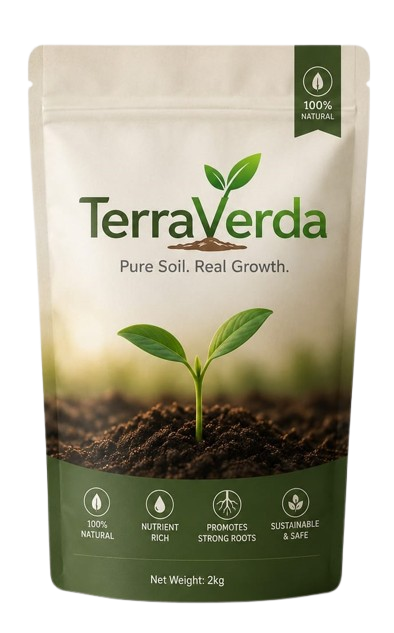
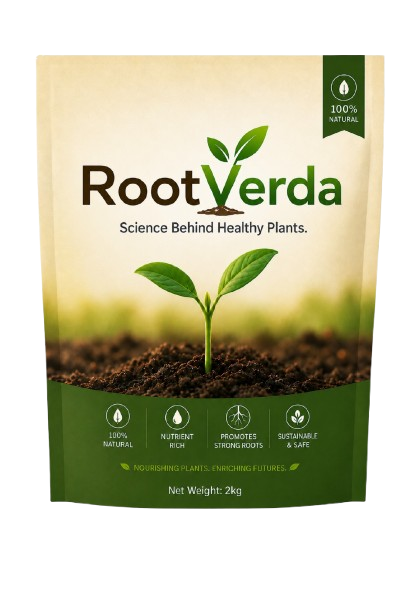
changed imagine to root verda, About us changes & routing to products

diff --git a/app/(public)/about/page.jsx b/app/(public)/about/page.jsx
@@ -1,5 +1,5 @@
 'use client'
-import { Suspense, useState } from 'react'
+import { Suspense, useEffect, useState } from 'react'
 import Image from 'next/image'
 import ProductCard from '@/components/ProductCard'
 import { useSelector } from 'react-redux'
@@ -29,6 +29,16 @@ function AboutContent() {
         setCarouselIndex((prevIndex) => (prevIndex >= maxCarouselIndex ? 0 : prevIndex + 1))
     }
 
+    useEffect(() => {
+        if (!carouselItems.length) return
+
+        const intervalId = setInterval(() => {
+            setCarouselIndex((prevIndex) => (prevIndex >= maxCarouselIndex ? 0 : prevIndex + 1))
+        }, 3000)
+
+        return () => clearInterval(intervalId)
+    }, [carouselItems.length, maxCarouselIndex])
+
     return (
         <div className="min-h-screen mx-6">
             <div className="max-w-7xl mx-auto py-12">
@@ -56,7 +66,7 @@ function AboutContent() {
                     <div className="flex flex-col gap-4 md:flex-row md:items-center md:justify-between">
                         <div>
                             <p className="text-sm uppercase tracking-[0.3em] text-green-600 font-semibold mb-2">About Us Sections</p>
-                            <h2 className="text-2xl md:text-3xl font-bold text-slate-800">Choose a page to learn more</h2>
+                            <h2 className="text-2xl md:text-3xl font-bold text-slate-800">We Are Always Connected With Nature — And With You</h2>
                         </div>
                         <div className="w-full md:w-auto">
                             <div className="hidden md:flex gap-3">
@@ -94,7 +104,7 @@ function AboutContent() {
                                         <p className="text-sm uppercase tracking-[0.3em] text-green-600 font-semibold mb-3">Founder</p>
                                         <h3 className="text-3xl font-bold text-slate-800 mb-4">Our Founder is a visionary leader for organic growth.</h3>
                                         <p className="text-slate-600 leading-relaxed">
-                                            Our founder blends deep agricultural science with a commitment to community-led sustainable farming. The founder's goal is to make organic solutions practical, scalable, and meaningful for both rural farms and urban homes.
+                                           At RootVerda, every customer relationship begins with trust and continues through genuine support, honest communication, and our commitment to helping both people and plants grow healthier together.Whether you are a home gardener caring deeply for your balcony plants, a nature lover building greener spaces around your family, a farmer looking to understand the larger value of natural agricultural products, or someone simply seeking honest guidance for healthier plant growth — we are always ready to listen.
                                         </p>
                                         <p className="text-slate-600 leading-relaxed mt-4">
                                             This section showcases real product innovation, hands-on leadership, and a passion for connecting every customer to healthier soil, better harvests, and trusted expert support.
@@ -146,33 +156,58 @@ function AboutContent() {
                                     <div className="grid gap-4">
                                         <div className="rounded-3xl bg-white p-6 shadow-sm border border-slate-200">
                                             <h5 className="text-xl font-semibold text-slate-800 mb-3">Product-led leadership</h5>
-                                            <p className="text-slate-600 leading-relaxed">Our founder leads with product innovation that blends sustainable ingredients, practical application, and consistent performance across every soil type.</p>
+                                            <p className="text-slate-600 leading-relaxed">We believe that every question deserves attention because behind every plant stands a person who genuinely cares about life, growth, and the beauty that nature quietly creates around us.Our team remains available to help customers understand product suitability, discuss plant health concerns, provide guidance related to natural agricultural products, and assist with product selection based on your individual plant care requirements.</p>
                                         </div>
                                         <div className="rounded-3xl bg-white p-6 shadow-sm border border-slate-200">
                                             <h5 className="text-xl font-semibold text-slate-800 mb-3">Built for modern growers</h5>
-                                            <p className="text-slate-600 leading-relaxed">Every image in the carousel represents a category of products designed to support gardens, farms, and indoor growers with reliable, easy-to-use solutions.</p>
+                                            <p className="text-slate-600 leading-relaxed">For local sourcing operations, farmer coordination, and product collection activities from the Konkan region, our ground operations are supported through our local network managed from Sindhudurg by our operational representative Rupesh Sawant, who helps us stay closely connected with local agricultural communities and regional product sourcing activities.</p>
                                         </div>
                                     </div>
                                 </div>
                             </div>
                         ) : (
+                            <>
+                             <div className="mb-16 bg-gradient-to-r from-green-50 to-slate-50 p-10 rounded-lg">
+                    <h2 className="text-3xl font-bold text-slate-800 mb-8 flex items-center gap-2">
+                        <Leaf className="w-8 h-8 text-green-600" />
+                        Meet Our Organic Farming Specialist
+                    </h2>
+                    <div className="flex justify-center">
+                        <div className="group w-full max-w-2xl bg-white shadow-lg rounded-xl overflow-hidden transform transition duration-300 hover:scale-105 hover:shadow-2xl">
+                            <img
+                                src="http://kvksindhudurg.com/wp-content/uploads/2024/06/vys-150x150.jpg"
+                                alt="Organic Farming Specialist"
+                                className="w-100 h-100 object-cover group-hover:opacity-90 transition duration-300 justify-center items-center mx-auto "
+                            />
+                            <div className="p-6 text-center">
+                                <h3 className="text-xl font-bold text-slate-800 mb-2">Dr. Vilas Yashwant Sawant</h3>
+                                <p className="text-slate-600 mb-4">Subject Matter Specialist</p>
+                                <p className="text-slate-600 mb-4">Discipline: Extension Education</p>
+                                <div className="flex justify-center gap-4">
+                                    <span className="px-4 py-2 bg-green-100 text-green-700 rounded-full text-sm font-medium group-hover:bg-green-200 transition">
+                                        15+ Years Experience
+                                    </span>
+                                    <span className="px-4 py-2 bg-green-100 text-green-700 rounded-full text-sm font-medium group-hover:bg-green-200 transition">
+                                        Global Recognition
+                                    </span>
+                                </div>
+                            </div>
+                        </div>
+                    </div>
+                </div>
                             <div className="grid gap-8 lg:grid-cols-[1.2fr_0.8fr]">
                                 <div className="space-y-6">
                                     <div className="rounded-3xl bg-white p-8 shadow-sm border border-slate-200">
                                         <p className="text-sm uppercase tracking-[0.3em] text-green-600 font-semibold mb-3">Expertise</p>
-                                        <h3 className="text-3xl font-bold text-slate-800 mb-4">Guidance backed by science and experience</h3>
+                                        <h3 className="text-3xl font-bold text-slate-800 mb-4">Guidance backed by experience</h3>
                                         <p className="text-slate-600 leading-relaxed">
-                                            Our advisor expertise page helps customers understand why our products work, how to use them effectively, and why each choice supports healthier plants. We combine academic research, field experience, and practical plant care advice.
+                                           Dr. Vilas Sawant is recognized for his work as a Subject Matter Specialist in Extension Education, actively participating in field-based agricultural research activities focused on improving farming practices under real-world conditions. His expertise includes on-farm testing programs where agricultural technologies are tested directly on farmers’ fields to evaluate their effectiveness under different soil types, climatic conditions, local farming systems, and regional agricultural environments.
                                         </p>
                                     </div>
-                                    <div className="grid gap-4 sm:grid-cols-2">
+                                    <div className="grid gap-4 sm:grid-cols-1">
                                         <div className="rounded-3xl bg-white p-6 shadow-sm border border-slate-200">
                                             <h5 className="text-xl font-semibold text-slate-800 mb-3">Science-backed formulas</h5>
-                                            <p className="text-slate-600 leading-relaxed">Every recommendation is supported by soil science and organic farming principles so you can trust the results.</p>
-                                        </div>
-                                        <div className="rounded-3xl bg-white p-6 shadow-sm border border-slate-200">
-                                            <h5 className="text-xl font-semibold text-slate-800 mb-3">Verified field results</h5>
-                                            <p className="text-slate-600 leading-relaxed">Our team works with farm partners to test products in real conditions before we bring them to market.</p>
+                                            <p className="text-slate-600 leading-relaxed">His work follows a highly practical scientific approach where technologies developed through agricultural universities and research institutes are tested, refined, modified where necessary, and then implemented for wider adoption after successful evaluation.For more than five years, continuous discussions around agriculture, natural farming opportunities, soil science, sustainable farming practices, and long-term agricultural business development gradually shaped the early vision of RootVerda.</p>
                                         </div>
                                     </div>
                                 </div>
@@ -204,6 +239,7 @@ function AboutContent() {
                                     </div>
                                 </div>
                             </div>
+                            </>
                         )}
                     </div>
                 </div>
@@ -229,54 +265,7 @@ function AboutContent() {
                     </div>
                 </div>
 
-                <div className="mb-16 bg-gradient-to-r from-green-50 to-slate-50 p-10 rounded-lg">
-                    <h2 className="text-3xl font-bold text-slate-800 mb-8 flex items-center gap-2">
-                        <Leaf className="w-8 h-8 text-green-600" />
-                        Meet Our Organic Farming Specialist
-                    </h2>
-                    <div className="grid grid-cols-1 md:grid-cols-2 lg:grid-cols-3 gap-8">
-                        <div className="group bg-white shadow-lg rounded-xl overflow-hidden transform transition duration-300 hover:scale-105 hover:shadow-2xl">
-                            <img
-                                src="http://kvksindhudurg.com/wp-content/uploads/2024/06/vys-150x150.jpg"
-                                alt="Organic Farming Specialist"
-                                className="w-full h-80 object-cover group-hover:opacity-90 transition duration-300"
-                            />
-                            <div className="p-6 text-center">
-                                <h3 className="text-xl font-bold text-slate-800 mb-2">Dr. Vilas Yashwant Sawant</h3>
-                                <p className="text-slate-600 mb-4">Subject Matter Specialist</p>
-                                <p className="text-slate-600 mb-4">Discipline: Extension Education</p>
-                                <div className="flex justify-center gap-4">
-                                    <span className="px-4 py-2 bg-green-100 text-green-700 rounded-full text-sm font-medium group-hover:bg-green-200 transition">
-                                        15+ Years Experience
-                                    </span>
-                                    <span className="px-4 py-2 bg-green-100 text-green-700 rounded-full text-sm font-medium group-hover:bg-green-200 transition">
-                                        Global Recognition
-                                    </span>
-                                </div>
-                            </div>
-                        </div>
-                        <div className="group bg-white shadow-lg rounded-xl overflow-hidden transform transition duration-300 hover:scale-105 hover:shadow-2xl">
-                            <img
-                                src="http://kvksindhudurg.com/wp-content/uploads/2024/06/vys-150x150.jpg"
-                                alt="Organic Farming Specialist"
-                                className="w-full h-80 object-cover group-hover:opacity-90 transition duration-300"
-                            />
-                            <div className="p-6 text-center">
-                                <h3 className="text-xl font-bold text-slate-800 mb-2">Dr. Vilas Yashwant Sawant</h3>
-                                <p className="text-slate-600 mb-4">Subject Matter Specialist</p>
-                                <p className="text-slate-600 mb-4">Discipline: Extension Education</p>
-                                <div className="flex justify-center gap-4">
-                                    <span className="px-4 py-2 bg-green-100 text-green-700 rounded-full text-sm font-medium group-hover:bg-green-200 transition">
-                                        15+ Years Experience
-                                    </span>
-                                    <span className="px-4 py-2 bg-green-100 text-green-700 rounded-full text-sm font-medium group-hover:bg-green-200 transition">
-                                        Global Recognition
-                                    </span>
-                                </div>
-                            </div>
-                        </div>
-                    </div>
-                </div>
+               
 
                 <div className="mb-16 bg-gradient-to-r from-green-50 to-slate-50 p-10 rounded-lg">
                     <h2 className="text-3xl font-bold text-slate-800 mb-8 flex items-center gap-2">

diff --git a/components/Navbar.jsx b/components/Navbar.jsx
@@ -71,7 +71,7 @@ const Navbar = () => {
                         <Link href="/">Home</Link>
                         <Link href="/shop">Shop</Link>
                         <Link href="/about">About</Link>
-                        <Link href="/gardening-accessories">Products</Link>
+                        <Link href="/products">Products</Link>
 
                         <form onSubmit={handleSearch} className="hidden xl:flex items-center w-xs text-sm gap-2 bg-slate-100 px-4 py-3 rounded-full">
                             <Search size={18} className="text-slate-600" />
@@ -139,7 +139,7 @@ const Navbar = () => {
                         <Link href="/" onClick={() => setSidebarOpen(false)} className="block rounded-2xl border border-slate-200 px-4 py-3 text-slate-800 hover:bg-slate-50">Home</Link>
                         <Link href="/shop" onClick={() => setSidebarOpen(false)} className="block rounded-2xl border border-slate-200 px-4 py-3 text-slate-800 hover:bg-slate-50">Shop</Link>
                         <Link href="/about" onClick={() => setSidebarOpen(false)} className="block rounded-2xl border border-slate-200 px-4 py-3 text-slate-800 hover:bg-slate-50">About</Link>
-                        <Link href="/gardening-accessories" onClick={() => setSidebarOpen(false)} className="block rounded-2xl border border-slate-200 px-4 py-3 text-slate-800 hover:bg-slate-50">Products</Link>
+                        <Link href="/products" onClick={() => setSidebarOpen(false)} className="block rounded-2xl border border-slate-200 px-4 py-3 text-slate-800 hover:bg-slate-50">Products</Link>
                         <Link href="/cart" onClick={() => setSidebarOpen(false)} className="block rounded-2xl border border-slate-200 px-4 py-3 text-slate-800 hover:bg-slate-50">Cart</Link>
                     </nav>
 

diff --git a/assets/assets.js b/assets/assets.js
@@ -19,7 +19,7 @@ import product_img12 from "./product_img12.png"
 import product_img13 from "./product_img13.png"
 import product_img14 from "./product_img14.png"
 import product_img15 from "./product_img15.png"
-import product_img16 from "./product_img16.jpeg"
+import product_img16 from "./product_img16.jpg"
 import { ClockFadingIcon, HeadsetIcon, SendIcon } from "lucide-react";
 import profile_pic1 from "./profile_pic1.jpg"
 import profile_pic2 from "./profile_pic2.jpg"